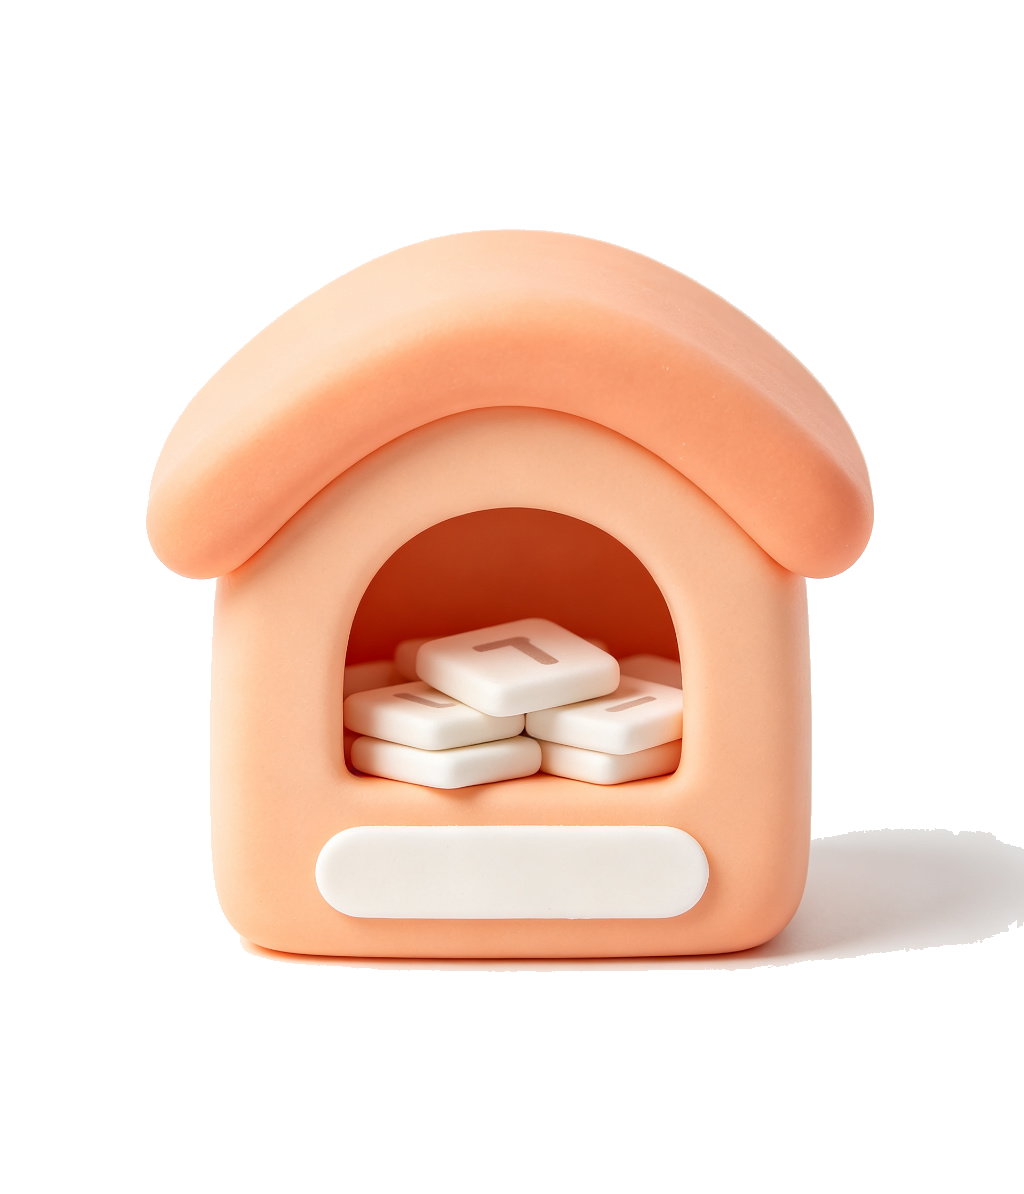
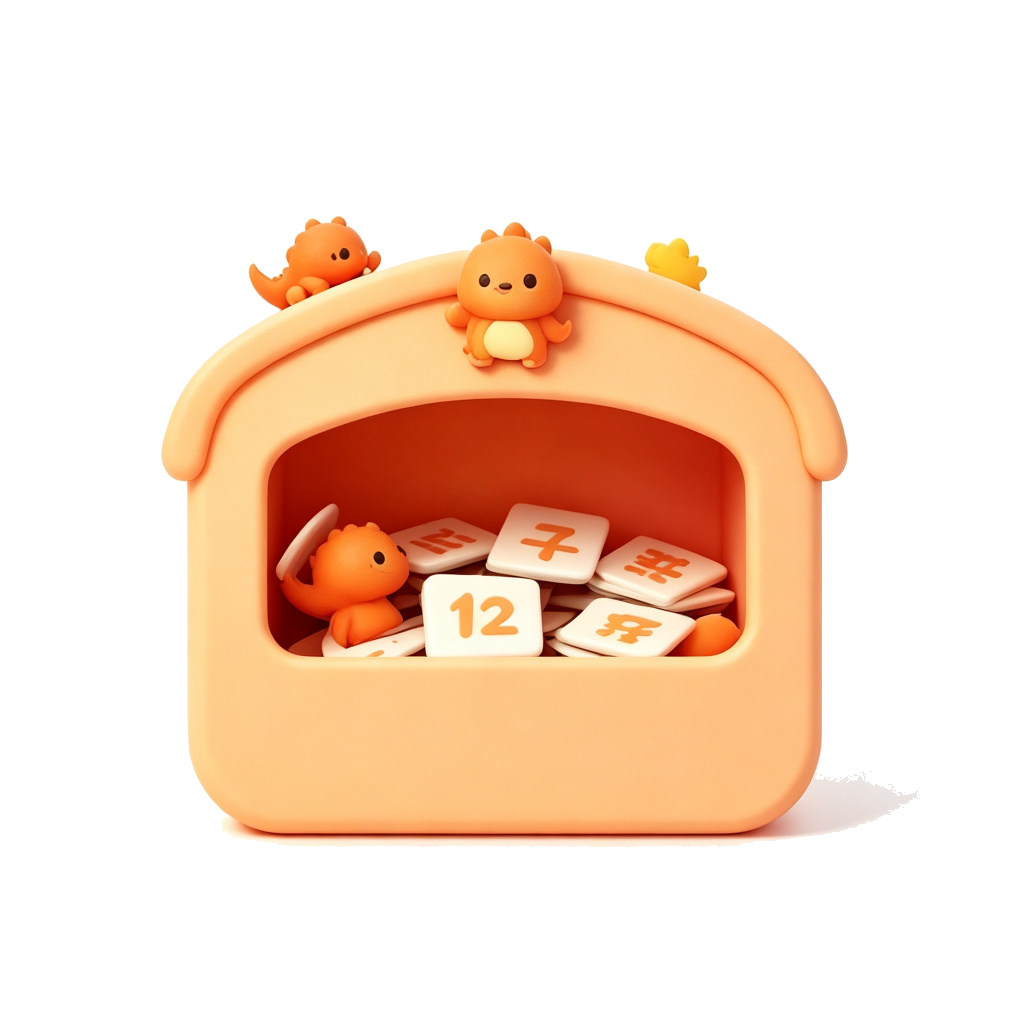
仓库房子按设计稿重出：圆角大方盒+弧形屋檐+拱洞堆字卡+屋顶小恐龙
- 以用户提供的设计图为参考，重新生成4张单房子素材
- PIL 抠透明背景，直接叠加
- 去掉代码里的 emoji 小动物（图里自带）
- 仓库名+字数白色粗体印在房体底部

diff --git a/src/renderer/components/WarehouseBar.vue b/src/renderer/components/WarehouseBar.vue
@@ -8,9 +8,8 @@
       :title="names[w]"
       @click="$emit('select', w)"
     >
-      <div class="pet">{{ PETS[w] }}</div>
       <img class="house-img" :src="HOUSES[w]" :alt="names[w]" />
-      <!-- 门牌文字叠在图底部空白标签条上 -->
+      <!-- 仓库名+字数，印在房体底部 -->
       <div class="plate">
         <div class="w-name">{{ names[w] }}</div>
         <div class="w-num">{{ counts[w] || 0 }} 字</div>
@@ -27,69 +26,57 @@ defineProps({
 });
 defineEmits(['select']);
 const names = WAREHOUSE_NAMES;
-// seedream 生成的 3D 小房子素材
+// seedream 生成的 3D 小房子素材（已抠透明，自带屋顶小恐龙）
 const HOUSES = {
   1: 'warehouses/house-1.png',
   2: 'warehouses/house-2.png',
   3: 'warehouses/house-3.png',
   4: 'warehouses/house-4.png',
 };
-// 屋顶小动物
-const PETS = { 1: '🦕', 2: '🦖', 3: '🐨', 4: '🐸' };
 </script>
 
 <style scoped>
 .warehouse-bar {
   display: flex;
   justify-content: center;
-  gap: 14px;
+  gap: 18px;
   width: 100%;
-  padding: 0 16px;
+  padding: 0 20px;
   box-sizing: border-box;
 }
 .house {
   flex: 1;
-  max-width: 190px;
+  max-width: 240px;
   position: relative;
   cursor: pointer;
   transition: transform 0.15s;
 }
 .house:hover { transform: translateY(-3px); }
-
-/* 房子图：已抠成透明 PNG */
 .house-img {
   width: 100%;
   display: block;
 }
-/* 屋顶小动物 */
-.pet {
-  position: absolute;
-  top: -8px;
-  left: 50%;
-  transform: translateX(-50%);
-  font-size: 26px;
-  z-index: 2;
-  filter: drop-shadow(0 2px 2px rgba(0,0,0,0.15));
-}
-/* 门牌：叠在图底部空白标签条上 */
+/* 门牌：白色粗体印在房体底部 */
 .plate {
   position: absolute;
   left: 50%;
-  bottom: 12%;
+  bottom: 19%;
   transform: translateX(-50%);
   text-align: center;
   z-index: 2;
 }
 .w-name {
-  font-size: 13px;
-  font-weight: 800;
-  color: #5a4630;
+  font-size: 18px;
+  font-weight: 900;
+  color: #fff;
+  text-shadow: 0 1px 2px rgba(0,0,0,0.15);
   line-height: 1.2;
 }
 .w-num {
-  font-size: 15px;
+  font-size: 16px;
   font-weight: 800;
-  color: #5a4630;
-  margin-top: 1px;
+  color: #fff;
+  text-shadow: 0 1px 2px rgba(0,0,0,0.15);
+  margin-top: 2px;
 }
 </style>
